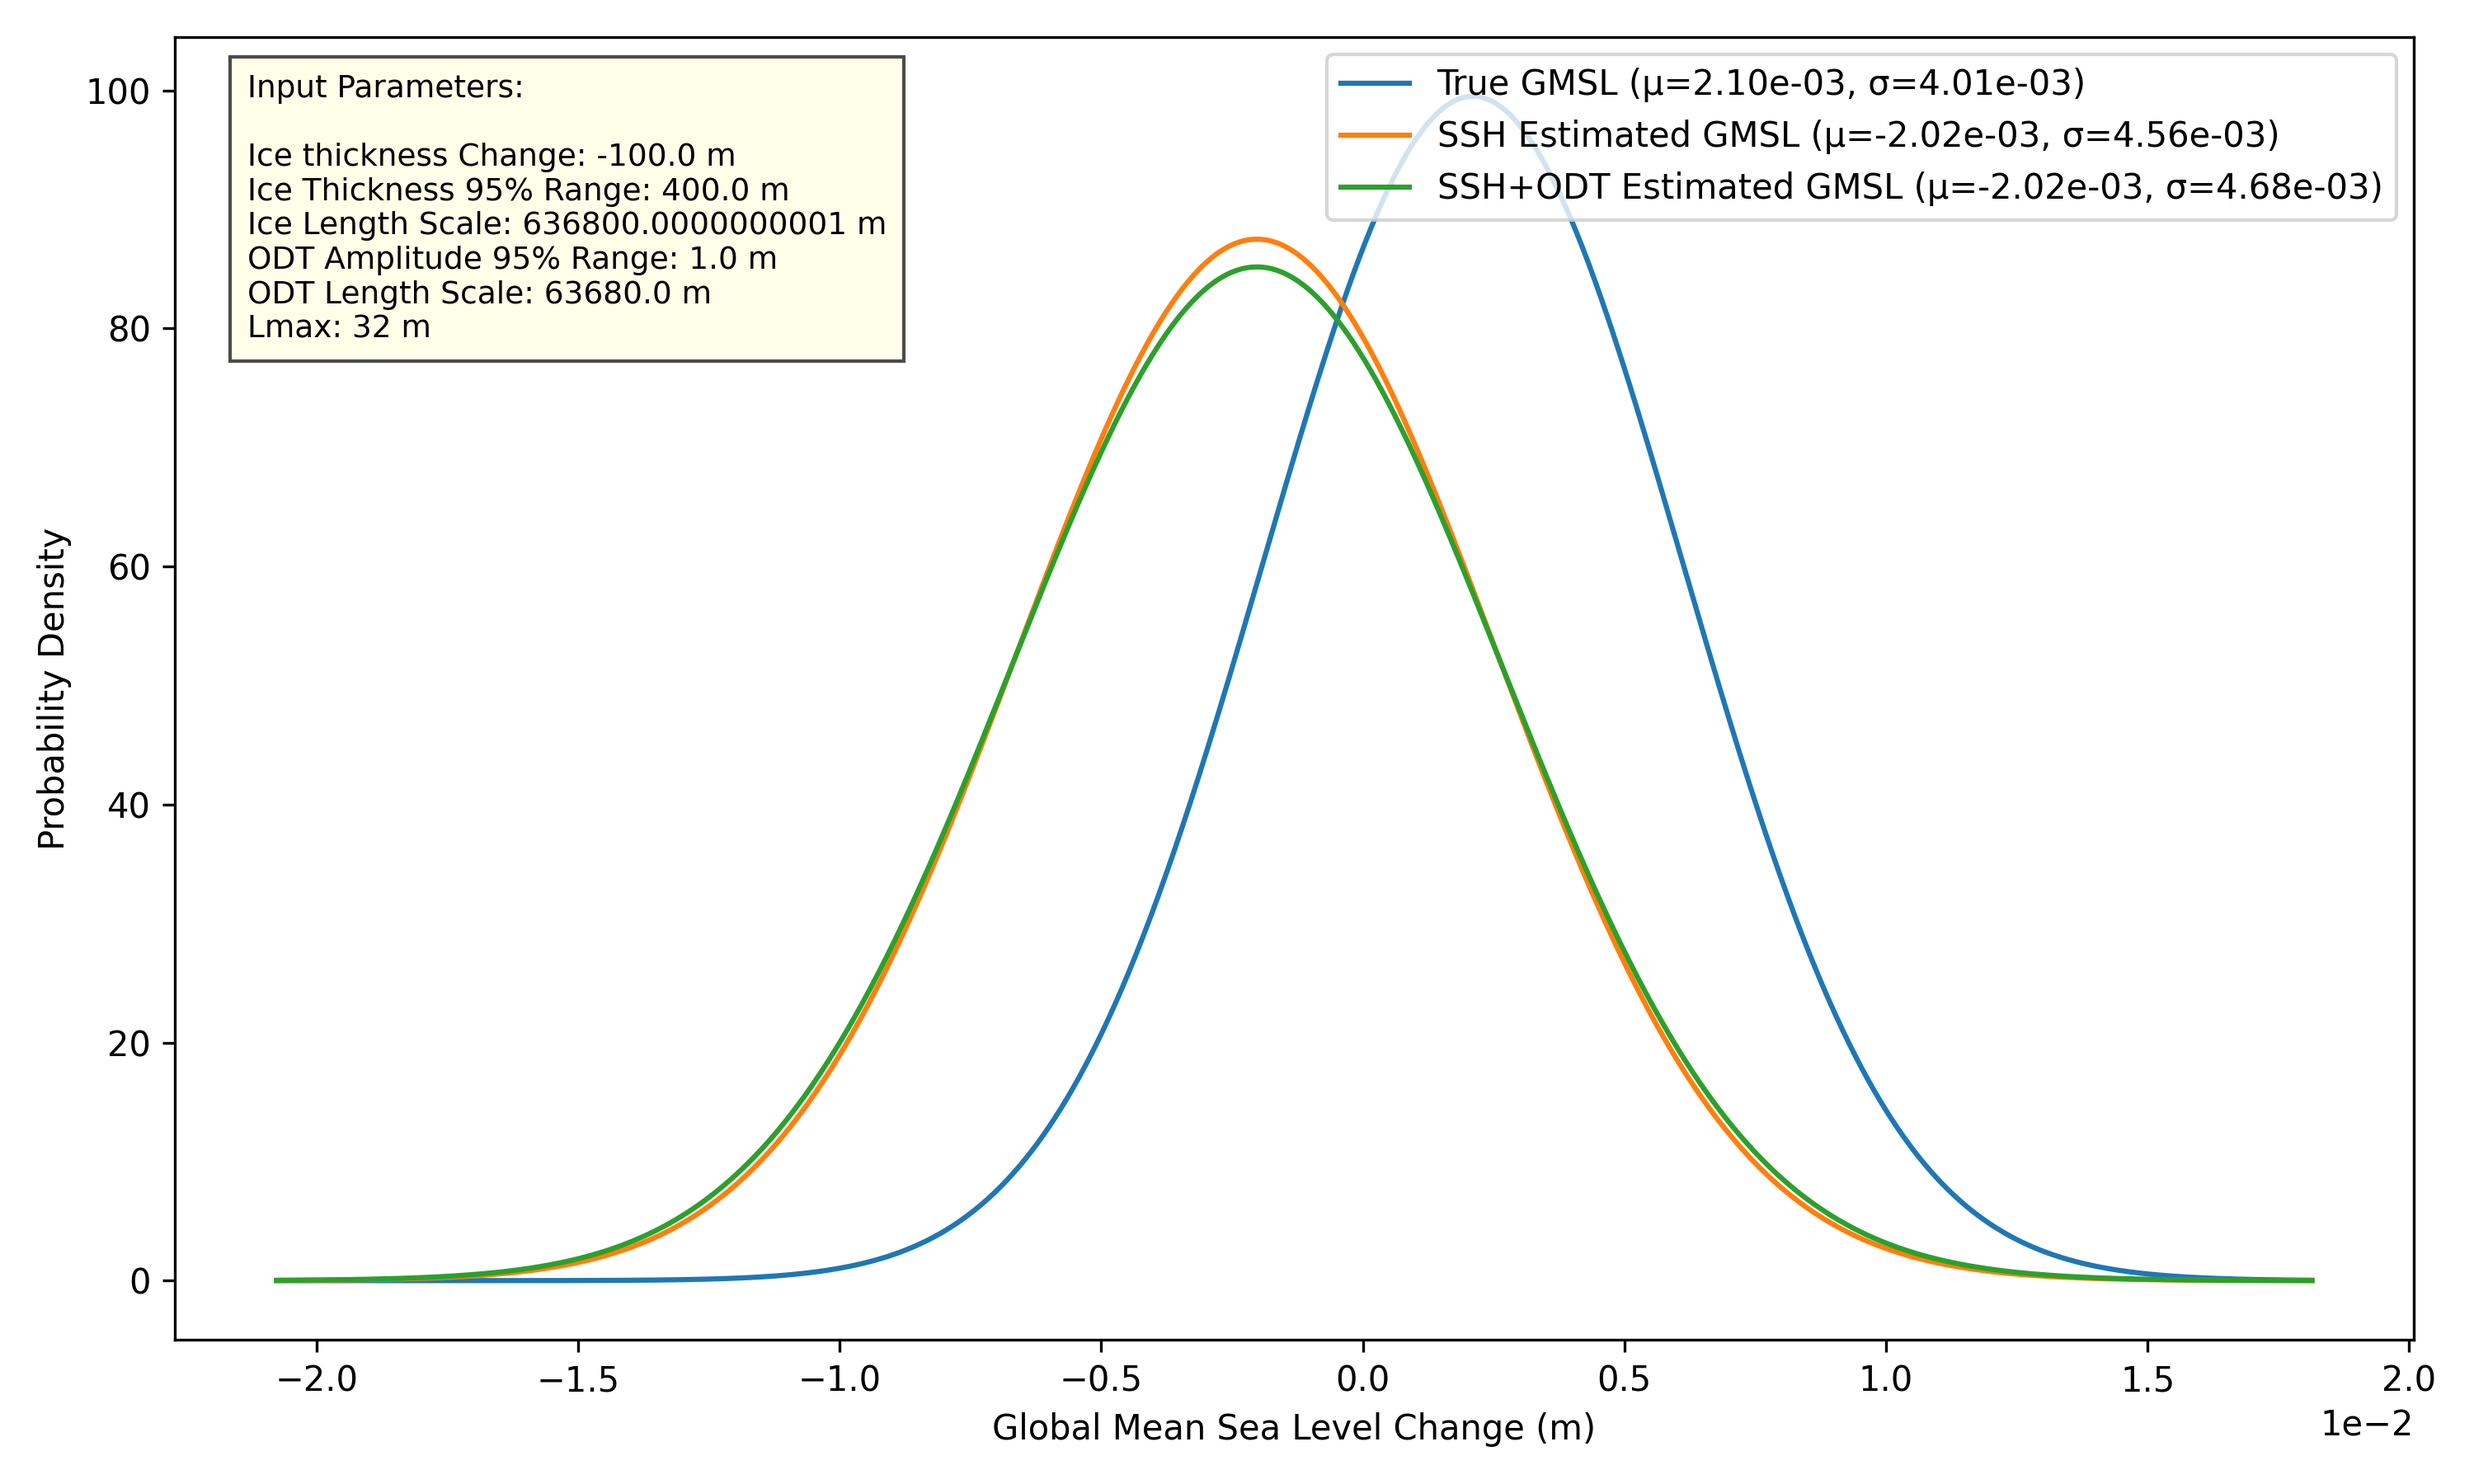
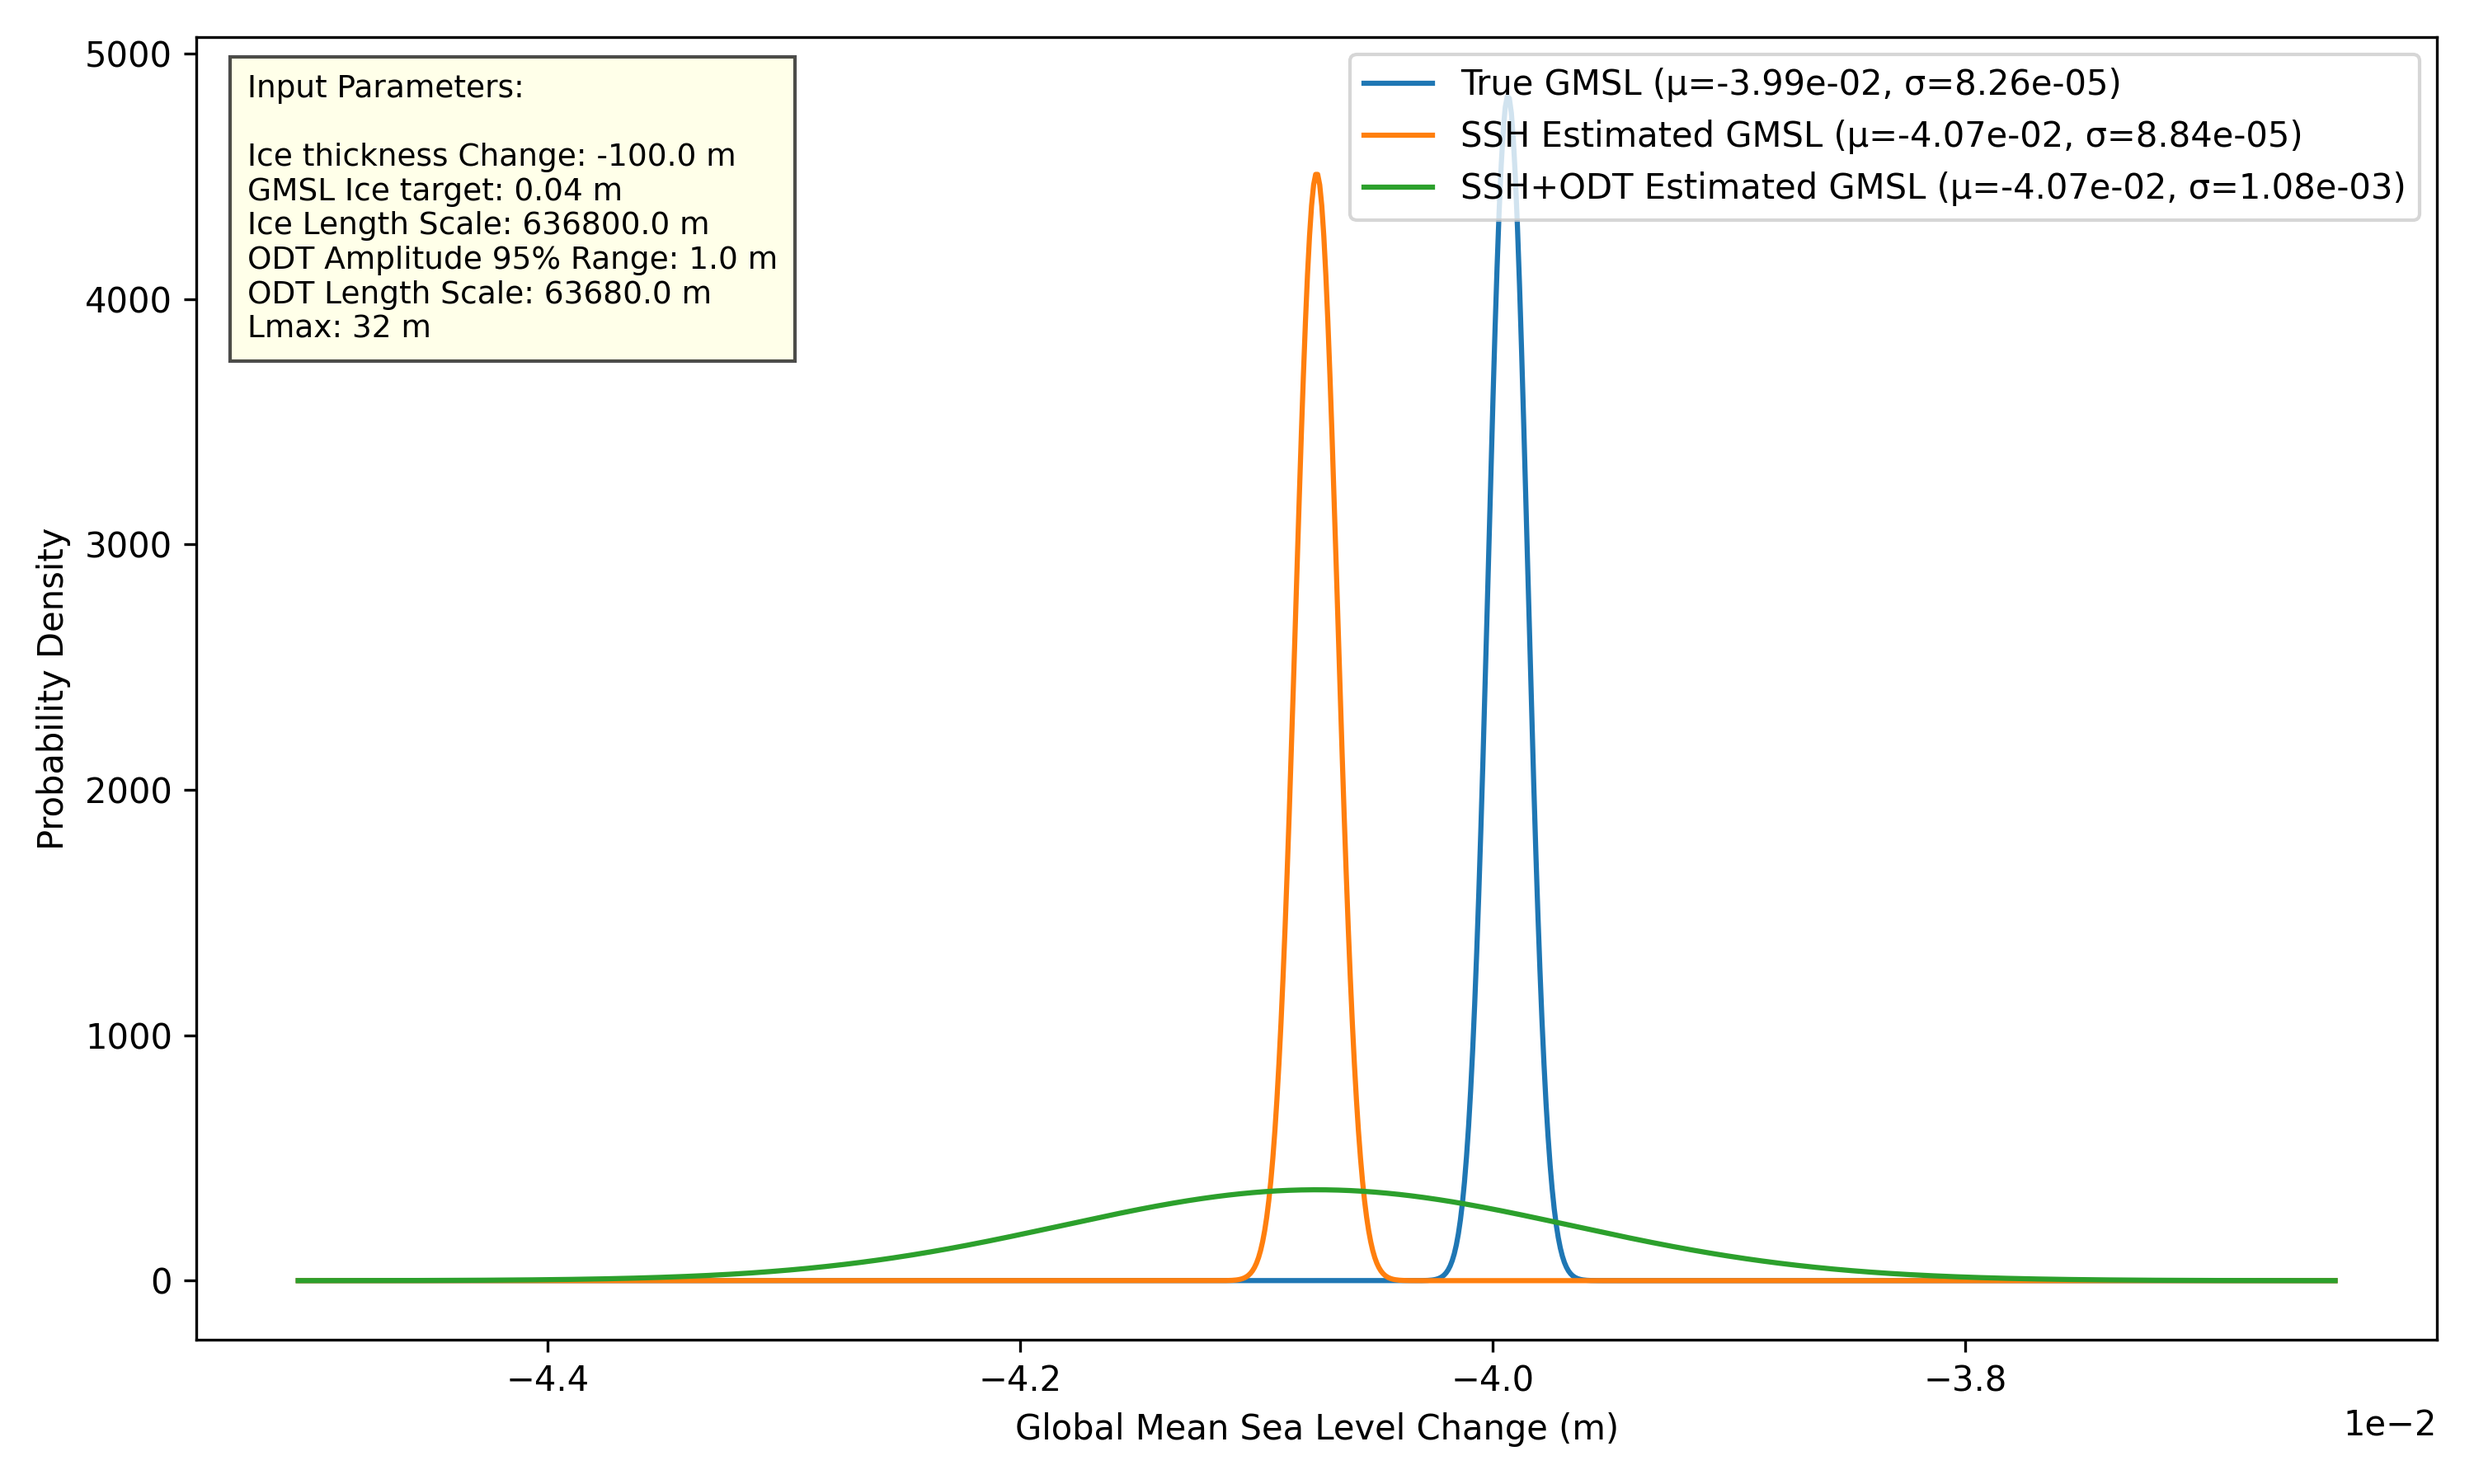
updated for target gmsl

diff --git a/work_da/random_fields4.py b/work_da/random_fields4.py
@@ -10,7 +10,8 @@ fp.set_state_from_ice_ng()
 
 # --- Get the representation as a Linear operator between Sobolev spaces ---
 fingerprint_operator = fp.as_sobolev_linear_operator(
-    2, 0.1 * fp.mean_sea_floor_radius
+    2,
+    0.1 * fp.mean_sea_floor_radius,
 )
 load_space = fingerprint_operator.domain
 response_space = fingerprint_operator.codomain
@@ -51,13 +52,14 @@ GMSL_weighting_function = (
     / (fp.water_density * fp.ocean_area)
 )
 GMSL_operator = sl.averaging_operator(
-    load_space, [GMSL_weighting_function]
+    load_space,
+    [GMSL_weighting_function],
 )
 
 
 # Push foward the load measure to one for GMSL and get its standard deviation
 GMSL_measure = ice_thickness_measure.affine_mapping(
-    operator=GMSL_operator
+    operator=GMSL_operator,
 )
 GMSL_variance = GMSL_measure.covariance.matrix(dense=True)[0, 0]
 GMSL_std = np.sqrt(GMSL_variance)
@@ -89,7 +91,8 @@ initial_ocean_dynamic_topography_measure = (
 # Push forward to a measure that is non-zero only in the oceans and which averages to zero
 ocean_projection = sl.ocean_projection_operator(fp, load_space)
 remove_ocean_average_operator = sl.remove_ocean_average_operator(
-    fp, load_space
+    fp,
+    load_space,
 )
 ocean_dynamic_topography_measure = (
     initial_ocean_dynamic_topography_measure.affine_mapping(
@@ -129,7 +132,7 @@ direct_load_operator = inf.RowLinearOperator(
 
 # Push forward the joint measure under this operator
 direct_load_measure = joint_measure.affine_mapping(
-    operator=direct_load_operator
+    operator=direct_load_operator,
 )
 
 # --- Set up the linear operator that maps to the total sea surface height change ---
@@ -220,62 +223,62 @@ altimetry_observation = (
 )
 
 
-fig1, ax1, im1 = sl.plot(
-    ice_thickness_change * fp.ice_projection(),
-    symmetric=True,
-)
-fig1.colorbar(
-    im1,
-    ax=ax1,
-    orientation="horizontal",
-    pad=0.05,
-    shrink=0.7,
-    label="ice thickness change (m)",
-)
+# fig1, ax1, im1 = sl.plot(
+#     ice_thickness_change * fp.ice_projection(),
+#     symmetric=True,
+# )
+# fig1.colorbar(
+#     im1,
+#     ax=ax1,
+#     orientation="horizontal",
+#     pad=0.05,
+#     shrink=0.7,
+#     label="ice thickness change (m)",
+# )
 
 
-fig2, ax2, im2 = sl.plot(
-    ocean_dynamic_topography * fp.ocean_projection(),
-    symmetric=True,
-)
-fig2.colorbar(
-    im2,
-    ax=ax2,
-    orientation="horizontal",
-    pad=0.05,
-    shrink=0.7,
-    label="ocean dynamic topography (m)",
-)
+# fig2, ax2, im2 = sl.plot(
+#     ocean_dynamic_topography * fp.ocean_projection(),
+#     symmetric=True,
+# )
+# fig2.colorbar(
+#     im2,
+#     ax=ax2,
+#     orientation="horizontal",
+#     pad=0.05,
+#     shrink=0.7,
+#     label="ocean dynamic topography (m)",
+# )
 
 
-fig3, ax3, im3 = sl.plot(
-    sea_surface_height_change * fp.ocean_projection(),
-    symmetric=True,
-)
-fig3.colorbar(
-    im3,
-    ax=ax3,
-    orientation="horizontal",
-    pad=0.05,
-    shrink=0.7,
-    label="sea surface height change (m)",
-)
+# fig3, ax3, im3 = sl.plot(
+#     sea_surface_height_change * fp.ocean_projection(),
+#     symmetric=True,
+# )
+# fig3.colorbar(
+#     im3,
+#     ax=ax3,
+#     orientation="horizontal",
+#     pad=0.05,
+#     shrink=0.7,
+#     label="sea surface height change (m)",
+# )
 
-fig4, ax4, im4 = sl.plot(
-    altimetry_observation * fp.ocean_projection(),
-    symmetric=True,
-)
+# fig4, ax4, im4 = sl.plot(
+#     altimetry_observation * fp.ocean_projection(),
+#     symmetric=True,
+# )
 
-fig4.colorbar(
-    im4,
-    ax=ax4,
-    orientation="horizontal",
-    pad=0.05,
-    shrink=0.7,
-    label="altimetry observation (m)",
-)
+# fig4.colorbar(
+#     im4,
+#     ax=ax4,
+#     orientation="horizontal",
+#     pad=0.05,
+#     shrink=0.7,
+#     label="altimetry observation (m)",
+# )
 
-plt.show()
+# plt.show()
 
 
 # --- Set up an operator that maps the true ice thickness change to GMSL ---
@@ -297,7 +300,7 @@ altimetry_estimate_measure = joint_measure.affine_mapping(
     operator=altimetry_estimate_operator
     @ total_sea_surface_height_operator,
 ) + altimetry_error_measure.affine_mapping(
-    operator=altimetry_estimate_operator
+    operator=altimetry_estimate_operator,
 )
 
 
@@ -307,7 +310,7 @@ altimetry_estimate_measure = joint_measure.affine_mapping(
 # 1. Get statistics for the POSTERIOR distribution
 altimetry_estimate_mean = altimetry_estimate_measure.expectation[0]
 altimetry_estimate_var = altimetry_estimate_measure.covariance.matrix(
-    dense=True
+    dense=True,
 )[0, 0]
 altimetry_estimate_std = np.sqrt(altimetry_estimate_var)
 

diff --git a/src/Part_III_Project/measure_space/measures.py b/src/Part_III_Project/measure_space/measures.py
@@ -15,7 +15,7 @@ from Part_III_Project.measure_space.operators import (
 )
 
 
-def ice_thickness_change_measures(
+def old_ice_thickness_change_measures(
     fingerprint: FingerPrint = None,
     fingerprint_operator: LinearOperator = None,
     length_scale: float = 60,
@@ -60,6 +60,78 @@ def ice_thickness_change_measures(
         ),
     )
     return ice_measure, ice_load_measure
+
+
+def ice_thickness_change_measures(
+    fingerprint: FingerPrint,
+    fingerprint_operator: LinearOperator,
+    length_scale: float,
+    ice_gmsl_target_std: float,
+    net_thickness_change: float,
+) -> tuple[GaussianMeasure, GaussianMeasure]:
+    """-> ice_thickness_measure, ice_thickness_load_measure
+    Takes a length scale for the ice thickness changes and either a target GMSL std or a 95% range for the ice thickness changes to set the amplitude of the ocean dynamic topography measure.
+    All parameters should be passed in non-dimensionalized form (already divided by fingerprint.length_scale).
+    """
+    initial_ice_thickness_measure = (
+        fingerprint_operator.domain.heat_kernel_gaussian_measure(
+            length_scale,
+        )
+    )
+    ice_projection = sl.ice_projection_operator(
+        fingerprint,
+        fingerprint_operator.domain,
+    )
+    ice_thickness_measure = (
+        initial_ice_thickness_measure.affine_mapping(
+            operator=ice_projection,
+        )
+    )
+    GMSL_weighting_function = (
+        -fingerprint.ice_density
+        * fingerprint.one_minus_ocean_function
+        * fingerprint.ice_projection(value=0)
+        * fingerprint.length_scale
+        / (fingerprint.water_density * fingerprint.ocean_area)
+    )
+    GMSL_operator = sl.averaging_operator(
+        fingerprint_operator.domain,
+        [GMSL_weighting_function],
+    )
+    GMSL_measure = ice_thickness_measure.affine_mapping(
+        operator=GMSL_operator,
+    )
+    GMSL_variance = GMSL_measure.covariance.matrix(dense=True)[0, 0]
+    GMSL_std = np.sqrt(GMSL_variance)
+
+    # Normalise the ice load thickness measure and then recompute the load measure
+    ice_thickness_measure *= ice_gmsl_target_std / GMSL_std
+
+    if net_thickness_change != 0.0:
+        shift_vector = np.zeros(fingerprint_operator.domain.dim)
+        shift_vector[0] = (
+            net_thickness_change  # already non-dimensionalized
+        )
+        shift_vector = fingerprint_operator.domain.from_components(
+            shift_vector,
+        )
+        ice_thickness_measure = ice_thickness_measure.affine_mapping(
+            operator=fingerprint_operator.domain.identity_operator(),
+            translation=shift_vector,
+        )
+    # ice_thickness_measure = ice_thickness_measure.affine_mapping(
+    #     operator=ice_projection_operator(
+    #         fingerprint,
+    #         fingerprint_operator.domain,
+    #     ),
+    # )
+    ice_load_measure = ice_thickness_measure.affine_mapping(
+        operator=ice_thickness_change_to_load_operator(
+            finger_print=fingerprint,
+            load_space=fingerprint_operator.domain,
+        ),
+    )
+    return ice_thickness_measure, ice_load_measure
 
 
 def ocean_dynamic_topography_measures(

diff --git a/work/5-distribution_mapping/single_value_example.py b/work/5-distribution_mapping/single_value_example.py
@@ -37,9 +37,7 @@ odt_amplitude_95_range = (
 )  # in units of sea level, non-dimensionalized
 
 ice_length_scale = 0.1 * fp.mean_sea_floor_radius
-ice_thickness_95_range = (
-    400.0 / fp.length_scale
-)  # in meters, non-dimensionalized
+ice_gmsl_target_std = 0.04  # in meters, non-dimensionalized
 net_ice_thickness_change = (
     -100.0 / fp.length_scale
 )  # in meters, non-dimensionalized
@@ -85,7 +83,7 @@ ice_thickness_measure, ice_load_measure = (
         fingerprint=fp,
         fingerprint_operator=fingerprint_operator,
         length_scale=ice_length_scale,
-        thickness_95_range=ice_thickness_95_range,
+        ice_gmsl_target_std=ice_gmsl_target_std,
         net_thickness_change=net_ice_thickness_change,
     )
 )
@@ -204,8 +202,7 @@ plot_fig, plot_ax = plot_measure(
     args={
         "Ice thickness Change": net_ice_thickness_change
         * fp.length_scale,
-        "Ice Thickness 95% Range": ice_thickness_95_range
-        * fp.length_scale,
+        "GMSL Ice target": ice_gmsl_target_std * fp.length_scale,
         "Ice Length Scale": ice_length_scale * fp.length_scale,
         "ODT Amplitude 95% Range": odt_amplitude_95_range
         * fp.length_scale,
@@ -220,7 +217,7 @@ filename = (
     "work/5-distribution_mapping/outputs/single_value_params/"
     f"gmsl_comparison_"
     # f"iceLS_{ice_length_scale * fp.length_scale:.2e}_"
-    # f"iceAR_{ice_thickness_95_range * fp.length_scale:.2e}_"
+    # f"iceAR_{ice_gmsl_target_std * fp.length_scale:.2e}_"
     # f"netIce_{net_ice_thickness_change * fp.length_scale:.2e}_"
     # f"odtLS_{odt_length_scale * fp.length_scale:.2e}_"
     # f"odtAR_{odt_amplitude_95_range * fp.length_scale:.2e}_"
